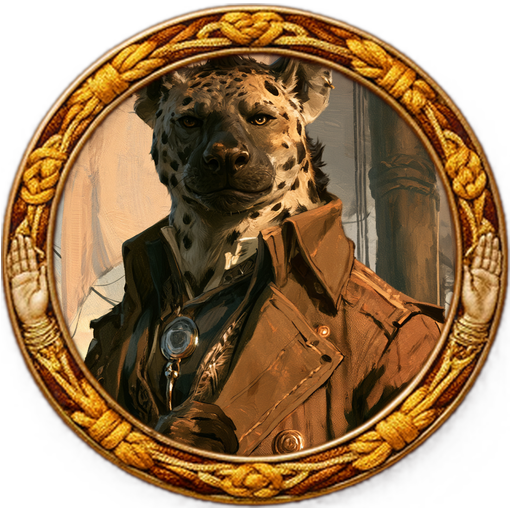
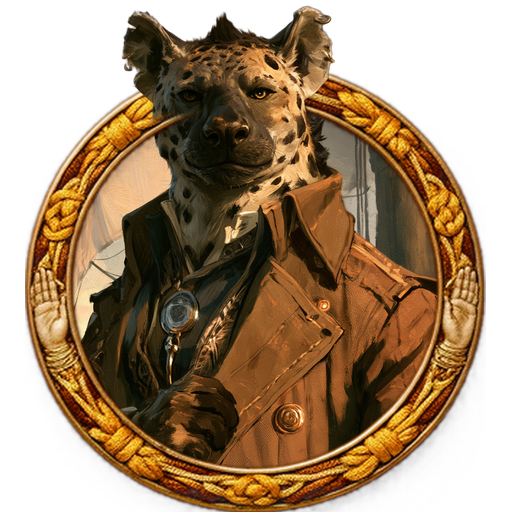
The Unspent's tokens: 24 NPCs baked on their faction frames with the head lifted over the ring (bake_token headpop), from rembg cut-outs kept beside each portrait

diff --git a/tools/foundryExport/bake_token.py b/tools/foundryExport/bake_token.py
@@ -167,6 +167,37 @@ def bake(portrait, frame, out, size=512, inner=0.84, feather=1.0, frame_mode="au
     return out
 
 
+def head_pop(portrait, frame, cutout, out, size=512, ring=0.9, ring_dy=0.06, head_top=0.015, zoom=1.0):
+    """Bake with the head lifted over the frame, worked out from the cut-out.
+
+    The figure is moved so the top of its head sits head_top below the token's
+    top edge; the frame is drawn at `ring` of the token, moved down by ring_dy,
+    so the head clears its top band; the pop box covers the head's width from
+    the top edge down past the band. A head already cut off at the top of the
+    source art is left inside the ring (a flat-topped pop-out reads badly)."""
+    c = _framed(cutout, size, zoom).split()[3].point(lambda v: 255 if v > 128 else 0)
+    w = c.width
+    rows = [sum(1 for x in range(0, w, 2) if c.getpixel((x, y))) for y in range(c.height)]
+    top = next((y for y, n in enumerate(rows) if n > w * 0.01), 0)
+    if top < size * 0.01:
+        return bake(portrait, frame, out, size, cutout=None, zoom=zoom), "head cut off in the art: plain"
+    dy = head_top - top / size
+    xs = sorted({x for y in range(top, min(c.height, top + int(size * 0.12))) for x in range(0, w, 2) if c.getpixel((x, y))})
+    # the head is the widest run of columns; a stray bit of the cut-out (a bird, a
+    # lantern) near the top is its own run and stays inside the ring
+    runs, start = [], xs[0]
+    for a_, b_ in zip(xs, xs[1:] + [None]):
+        if b_ is None or b_ - a_ > size * 0.04:
+            runs.append((start, a_))
+            start = b_
+    hx0, hx1 = max(runs, key=lambda r: r[1] - r[0])
+    x0, x1 = max(0.0, hx0 / size - 0.03), min(1.0, hx1 / size + 0.03)
+    ring_top = 0.5 + ring_dy - ring / 2
+    box = (x0, 0.0, x1, ring_top + 0.12)
+    bake(portrait, frame, out, size, cutout=cutout, pop=[box], zoom=zoom, dy=dy, ring=ring, ring_dy=ring_dy)
+    return out, f"head popped (dy {dy:+.3f})"
+
+
 def _resolve_frame(val, frames_dir):
     if not val:
         return None
@@ -218,7 +249,29 @@ def main():
     z.add_argument("--feather", type=float, default=1.0)
     z.add_argument("--frame-mode", default="auto", choices=["auto", "alpha", "annulus"])
 
+    h = sub.add_parser("headpop", help="Bake tokens with the head lifted over the frame, from cut-outs.")
+    h.add_argument("--portraits", required=True, help="Folder of <slug>.png portraits.")
+    h.add_argument("--cutouts", required=True, help="Folder of the same portraits with the background removed (<slug>-cutout.png or <slug>.png).")
+    h.add_argument("--frames", default=os.path.join(os.path.dirname(os.path.abspath(__file__)), "..", "token-frames"))
+    h.add_argument("--map", required=True, help='JSON {frame-stem: [portrait slugs]}.')
+    h.add_argument("--out", required=True)
+    h.add_argument("--size", type=int, default=512)
+
     a = ap.parse_args()
+    if a.cmd == "headpop":
+        groups = json.load(open(a.map, encoding="utf-8"))
+        for fr, slugs in groups.items():
+            frame = _resolve_frame(fr, a.frames)
+            for slug in slugs:
+                cut = next((os.path.join(a.cutouts, slug + e) for e in ("-cutout.png", ".png")
+                            if os.path.exists(os.path.join(a.cutouts, slug + e))), None)
+                if not cut:
+                    print(f"{slug}: no cut-out, skipped")
+                    continue
+                _, msg = head_pop(os.path.join(a.portraits, slug + ".png"), frame, cut,
+                                  os.path.join(a.out, slug + ".png"), a.size)
+                print(f"{slug} [{fr}]: {msg}")
+        return
     if a.cmd == "prep":
         _, used = prep(a.src, a.out, a.hue, a.hue_tol, a.sat_min, a.feather)
         print(f"{a.out}  (keyed hue {used:.0f})")

diff --git a/tools/foundryExport/README.md b/tools/foundryExport/README.md
@@ -209,6 +209,8 @@ per-faction / special-monster borders, bake a frame into the token image:
    `uvx --python 3.12 --from "rembg[cpu,cli]" rembg i -m birefnet-portrait <portrait>.png <slug>-cutout.png` (Python 3.12 through `uvx`, since rembg has no wheels for the system Python; the model downloads once, about 1 GB, into `~/.rembg/`), then
    `python bake_token.py bake --portrait <portrait>.png --frame <frame>.cut.png --cutout <slug>-cutout.png --pop 0.36,0,0.64,0.16 --pop 0,0.38,0.22,0.78 --out <campaign>/assets/tokens/<slug>.png`
    (here: Ninehulls' head at the top and his right arm on the left). Keep the cut-out beside the portrait as `<slug>-cutout.png`. `--zoom` and `--dy` move portrait and cut-out together, to push the figure further over the ring: `--ring` draws the frame smaller than the token and `--ring-dy` moves it down, leaving room above it for a head to come out. Ninehulls' token is `--ring 0.88 --ring-dy 0.06 --zoom 1.25 --dy 0.085 --pop 0.28,0,0.72,0.24 --pop 0,0.3,0.26,0.62`: his head out above the ring, his arm over it, the hand back inside.
+   **For a whole cast, head only:** `bake_token.py headpop` does it without boxes. Give it the portraits, their cut-outs (`<slug>-cutout.png`, from one `rembg p -m birefnet-portrait <in-dir> <out-dir>` batch through `uvx`) and a map `{frame: [slugs]}`; for each it moves the figure so the head sits just under the token's top edge, draws the frame a little smaller and lower, and lifts only the head's widest run of columns over the band (a stray bit of the cut-out stays inside). A head already cut off at the top of the art gets the plain bake. The Unspent's map is `quest-the-unspent.token-map.json`:
+   `python bake_token.py headpop --portraits <quest>/art --cutouts <quest>/art --map <quest>/quest-the-unspent.token-map.json --out <campaign>/assets/tokens`
 5. **Use it.** Upload the `<campaign>/assets/tokens/` dir (upload_foundry.py), then assign with the
    token-only / ring-off flags (keeps the un-framed portrait as the actor `img`,
    no doubled ring):
